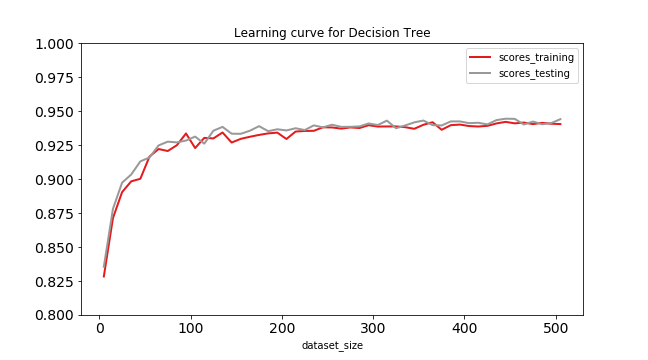
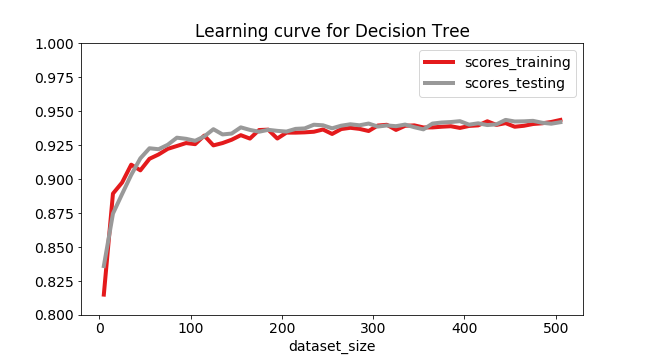
updates matplotlib configs

diff --git a/envconfig.py b/envconfig.py
@@ -15,8 +15,5 @@ pd.set_option("display.max_columns", 200)
 pd.set_option("display.max_rows", 0)
 pd.set_option('display.float_format', lambda x: '%.3f' % x)
 
-# Adjust matplotlib font
-font = {'family' : 'DejaVu Sans',
-        'weight' : 'normal',
-        'size'   : 14}
-matplotlib.rc('font', **font)
+# Configure matplotlib
+matplotlib.rc_file("matplotlibrc")

diff --git a/dependencies.py b/dependencies.py
@@ -5,6 +5,7 @@ import warnings
 import graphviz
 import matplotlib
 import matplotlib.pyplot as plt
+from matplotlib import rcParams
 
 from scipy.optimize import curve_fit
 from scipy.optimize import fsolve

diff --git a/utils.py b/utils.py
@@ -1,4 +1,4 @@
-from libraries import *
+from dependencies import *
 
 def learn_tree(*, X_train, y_train, X_test, y_test, features, max_features=None, max_leaf_nodes=None):
     """
